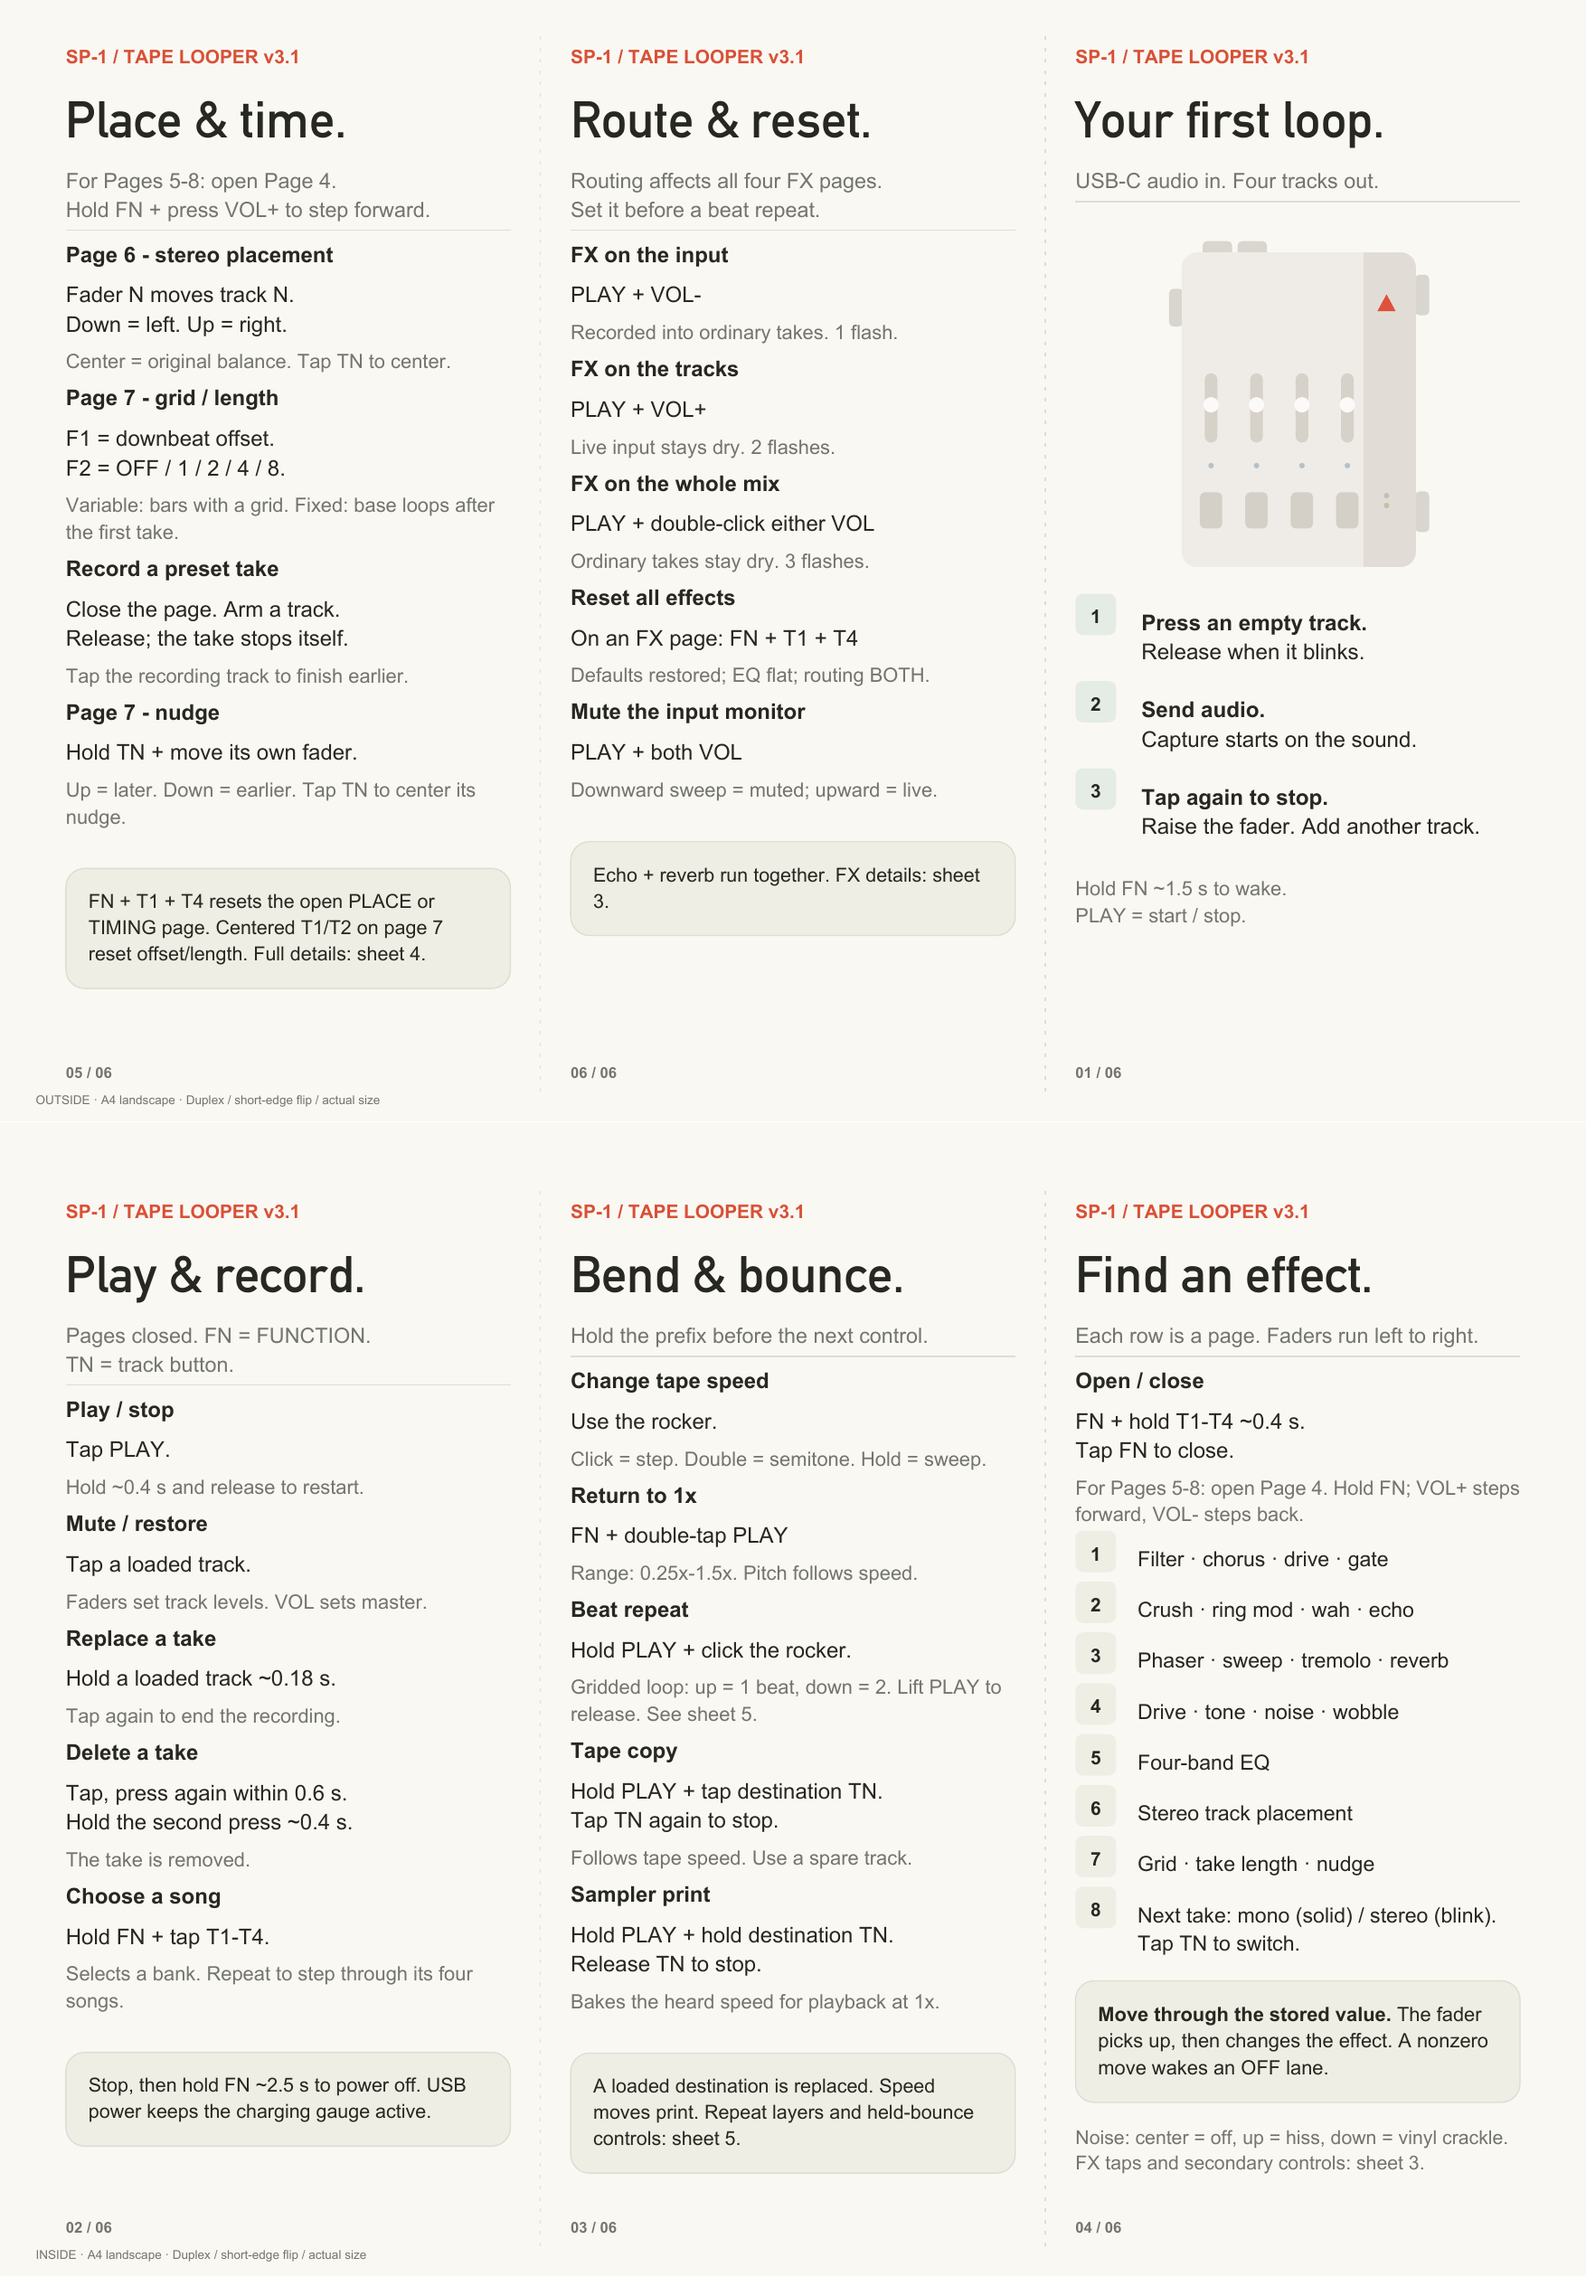
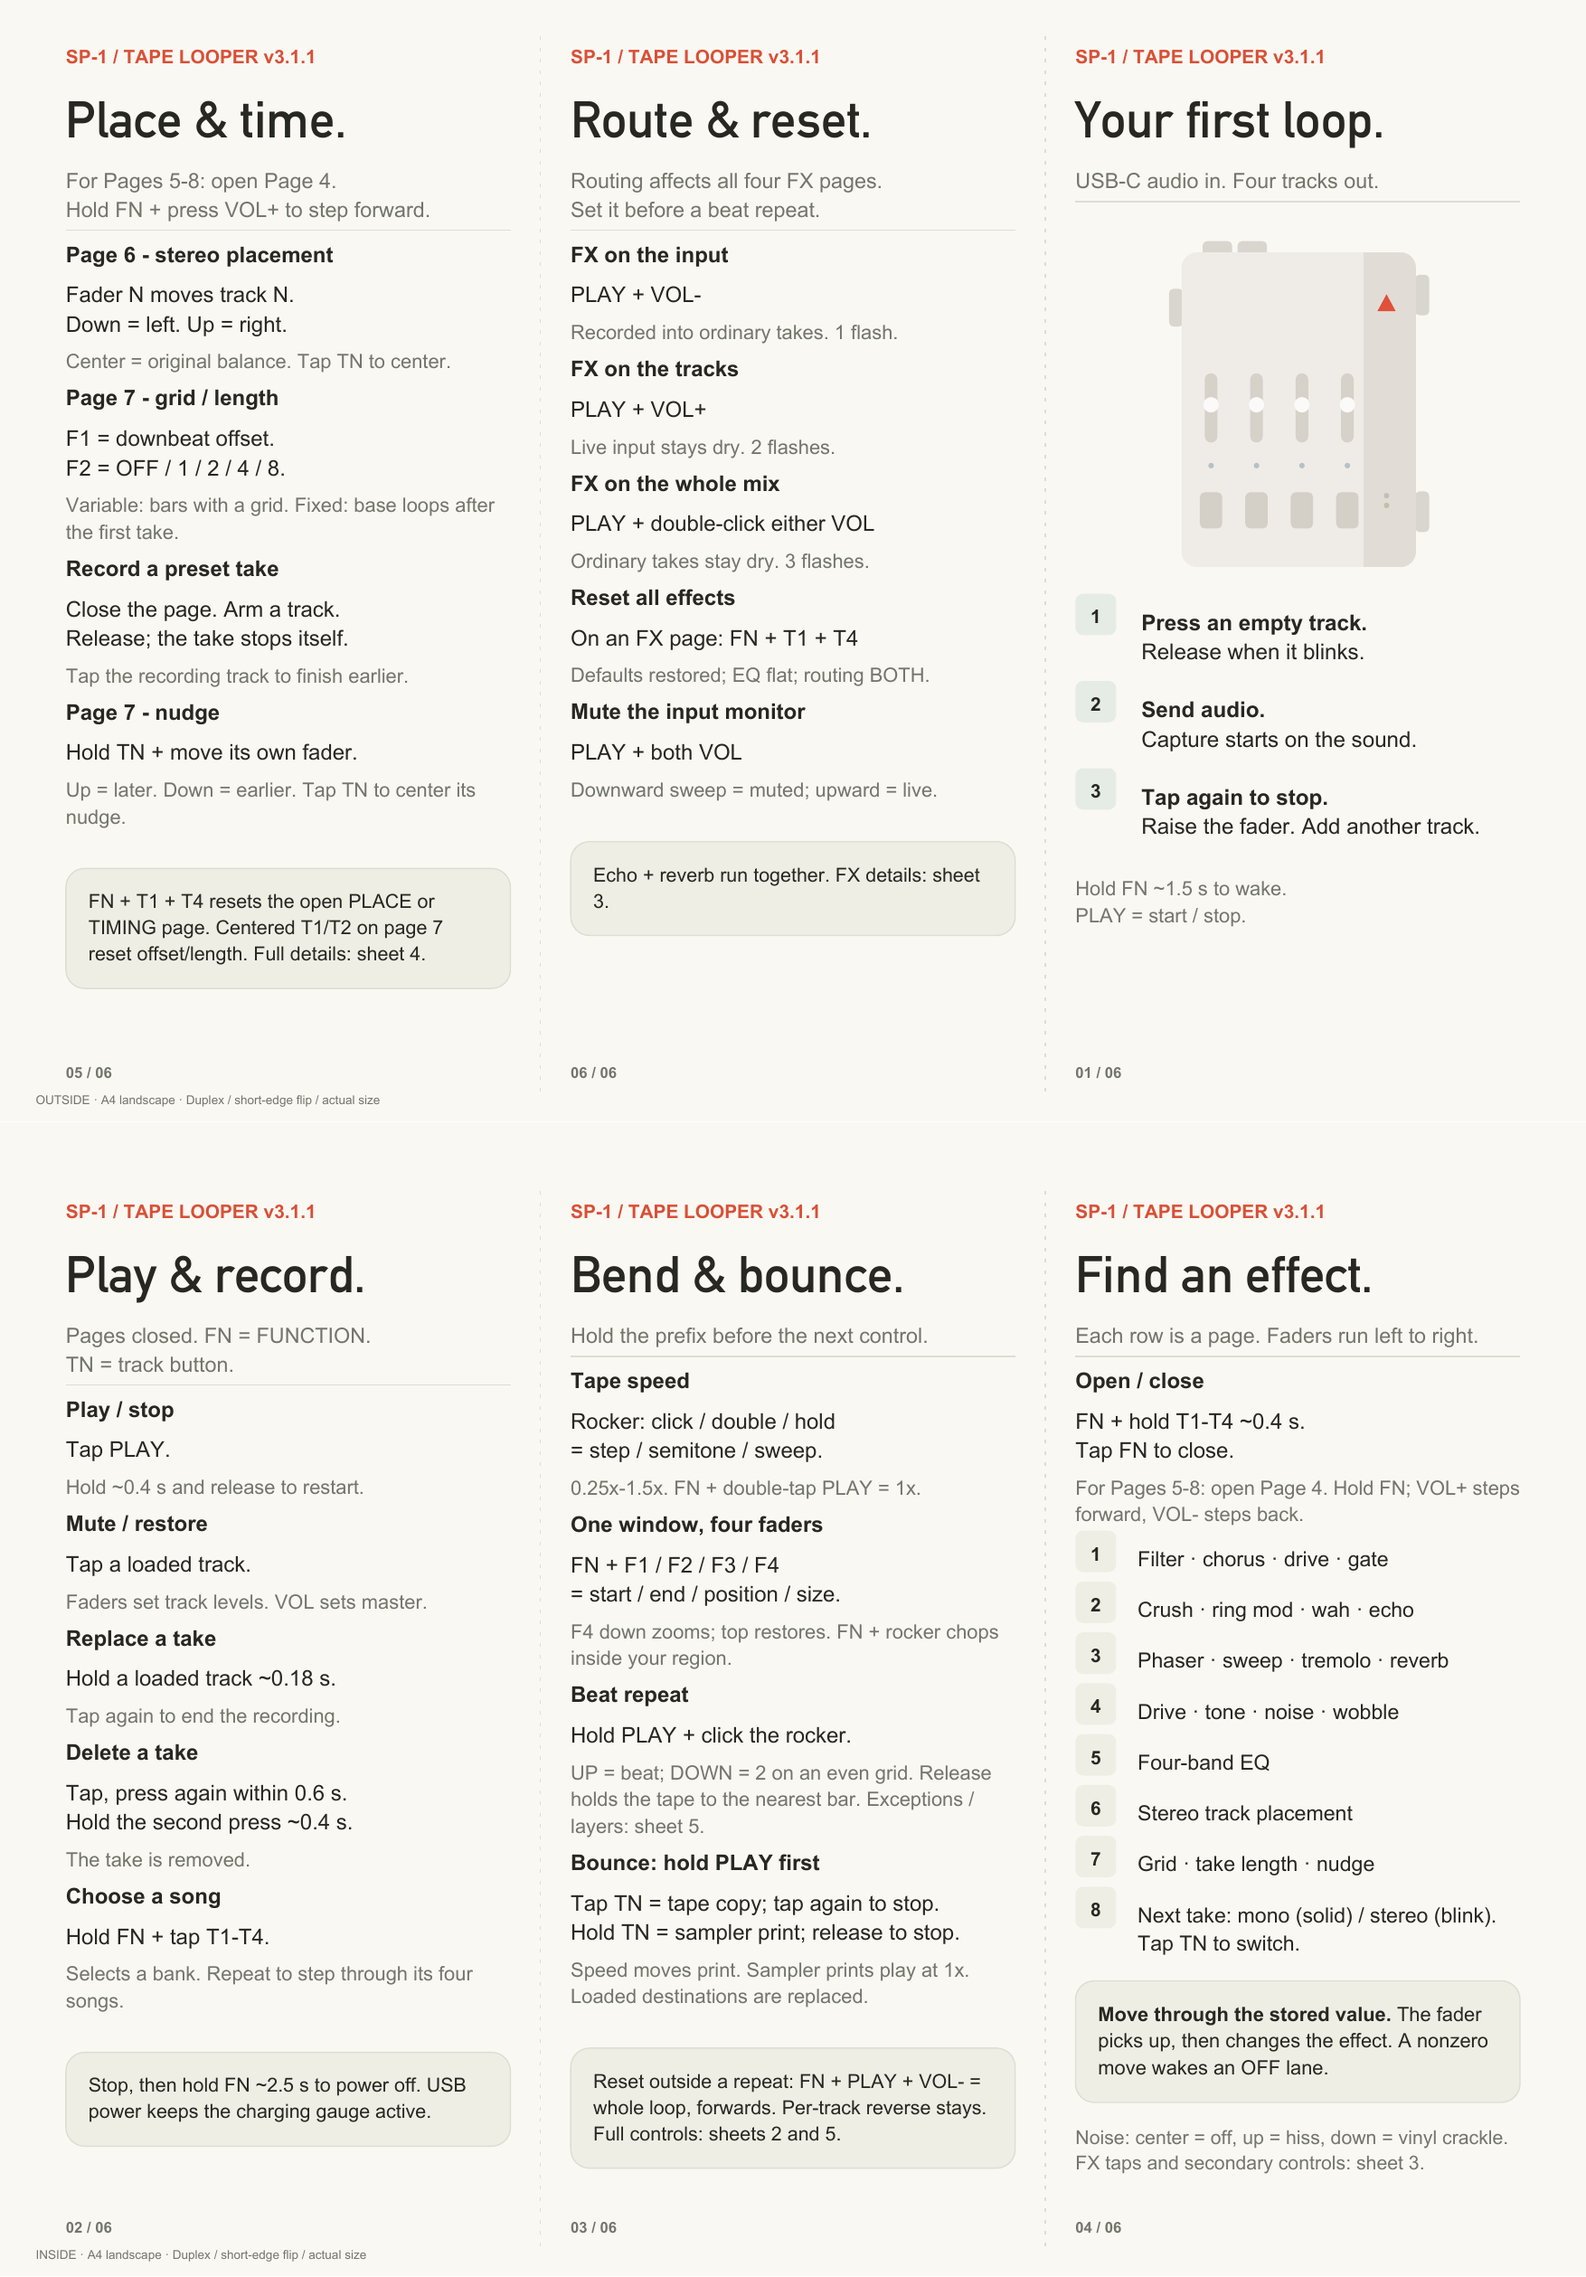
docs: v3.1.1 -- changelog and the refreshed 3.1 sheets
CHANGELOG: one self-contained 3.1.1 section covering everything since
3.0 -- the beat repeat and its behaviour inside a chop, FN + the four
faders as one window with the rocker subdividing it, the chop rounding
to the musical division, the chopped tracks locked, the gridded song's
loop taken from the lap the tape plays, the pops, and the headroom.
3.1.0's own section is left below it as history; the 3.1.0 release page
was taken down, so 3.0 is the release everyone is coming from. docs/:
marc's refreshed pocket guide, reference sheets and what's-new sheet,
same filenames, so the README and the transfer site are untouched.

Changed region(s): [[0.3387, 0.5886, 0.6157, 0.9603]]

diff --git a/CHANGELOG.md b/CHANGELOG.md
@@ -5,6 +5,55 @@ Versions 1.0.0-1.2.4 below were the 2.0 development line (developed as a
 fork by marc, never announced) — kept for the honest record. The classic
 4-song firmware lives on the `v1` branch. Base: 1.x at commit c60941c.
 
+## [3.1.1] - the beat repeat, the chop, and the pops
+
+**No format change.** Songs recorded on 3.0 play as they are. Flash and play.
+
+### The beat repeat
+- **Hold PLAY, click the rocker.** UP = the last beat; UP again or hold = shorter. DOWN = the last two beats; DOWN again or hold = longer. Lift PLAY: it releases, in time.
+- **While it is live:** VOL− / VOL+ = the window earlier / later. FN + rocker = octave. FN + the four faders shape the repeat's window.
+- **It stays inside a chop.** A chop live, and the repeat played audio from outside the chopped slice. It is a window inside what you hear now.
+- **It always does something.** On a chop shorter than a beat the repeat did nothing. UP gives a quarter of the chop, DOWN a half.
+- **It holds the tape.** Let go and each track stays where the repeat left it, rounded to the nearest bar. To let the tape run underneath instead, release PLAY and FN together.
+- **It survives a bounce,** and can start during one. A page-7 nudge moves the repeat with the track.
+
+### The window — FN + the four faders
+- **One window, four handles.** Faders 1 and 2 are its edges, 3 is its position, 4 is its size. The rocker does position and size in musical steps.
+- **They start from what you are hearing.** Grab any of them while a chop or a repeat is live and they continue from that window, instead of jumping out to the whole loop.
+- **The rocker chops inside the window you set.** Set a region with FN + faders 1/2, then work the rocker: it divides and steps *within* that region instead of throwing it away.
+- **Fader 4 zooms, and zooms back out.** It tightens the window about its centre and returns it exactly. Take it back to the top and you have the window you set.
+- **Slide fader 1 past fader 2** and the loop plays backwards.
+- **FN + PLAY + VOL− is the reset:** the whole loop, forwards, no chop. FN + PLAY + VOL+ moves the window home and keeps its size. A track you reversed with FN + track + PLAY stays reversed — that is its own control.
+
+### Bounce
+- **The rocker is free during a bounce.** Every block bakes at the speed you hear.
+- **In a held bounce:** lift PLAY, rocker = tempo. Keep PLAY down, rocker = the repeat.
+
+### Playing
+- **Monitor mute = PLAY + both VOL.** Anywhere, any page.
+- **Delete = tap, then press and hold** within 600 ms.
+
+### Sound
+- **Echo and reverb together.**
+- **The pops are gone:** the reverb rail pop, the dropout ticks, the rare hard click at max speed.
+- **Headroom.** Four stereo tracks at 1.5× with USB in and echo + reverb at max: six minutes, zero dropouts. Heavy stacks on top of that can still drop out.
+
+### Timing
+- **The grid comes from the tape.** Beats per loop and the 1 are derived from the loops and saved with the song. No drift.
+- **A gridded song no longer drifts against its own metronome and MIDI clock.** The song's loop is the length the tape plays. Old songs are corrected when they load. Nothing is written to your card unless you record.
+- **Chopped tracks stay locked.** Tracks recorded at different points in the loop walked apart from each other the deeper you chopped. They hold at every depth now.
+- **A deep chop keeps time.** The chop window rounds to the musical division instead of truncating to whole blocks. A held /16 chop slid about 88 ms a lap against the grid; it is under 6 ms now. The end of the take is reachable at every depth.
+- **The chop depth limit is correct on mono songs.**
+- **The loop seam** no longer dips at the join.
+
+### Not fixed
+- A chop window is still a whole number of blocks, so it can sit up to 3 ms from the exact division.
+
+### Removed
+- FN + both VOL on a page. The mute is PLAY + both VOL, everywhere.
+- FN + fader 4 no longer duplicates the page 1 filter. The filter keeps its page fader and its track-tap bypass.
+
+
 ## [3.1.0] - the beat repeat, the pops, and headroom
 
 **No format change.** Songs recorded on 3.0 play as they are.
